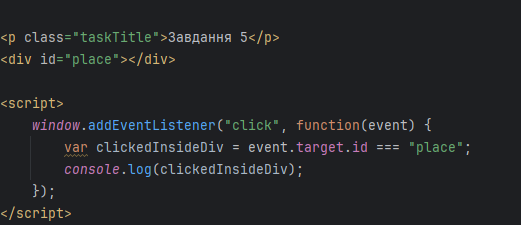
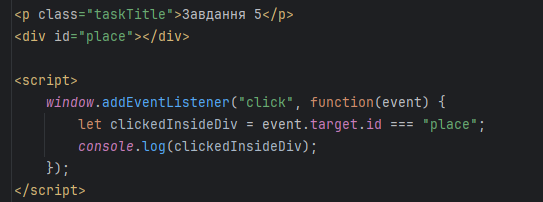
lab6

diff --git a/lab6/lab66.html b/lab6/lab66.html
@@ -46,7 +46,7 @@
 
 <script>
     window.addEventListener("click", function(event) {
-        var clickedInsideDiv = event.target.id === "place";
+        let clickedInsideDiv = event.target.id === "place";
         console.log(clickedInsideDiv);
     });
 </script>
